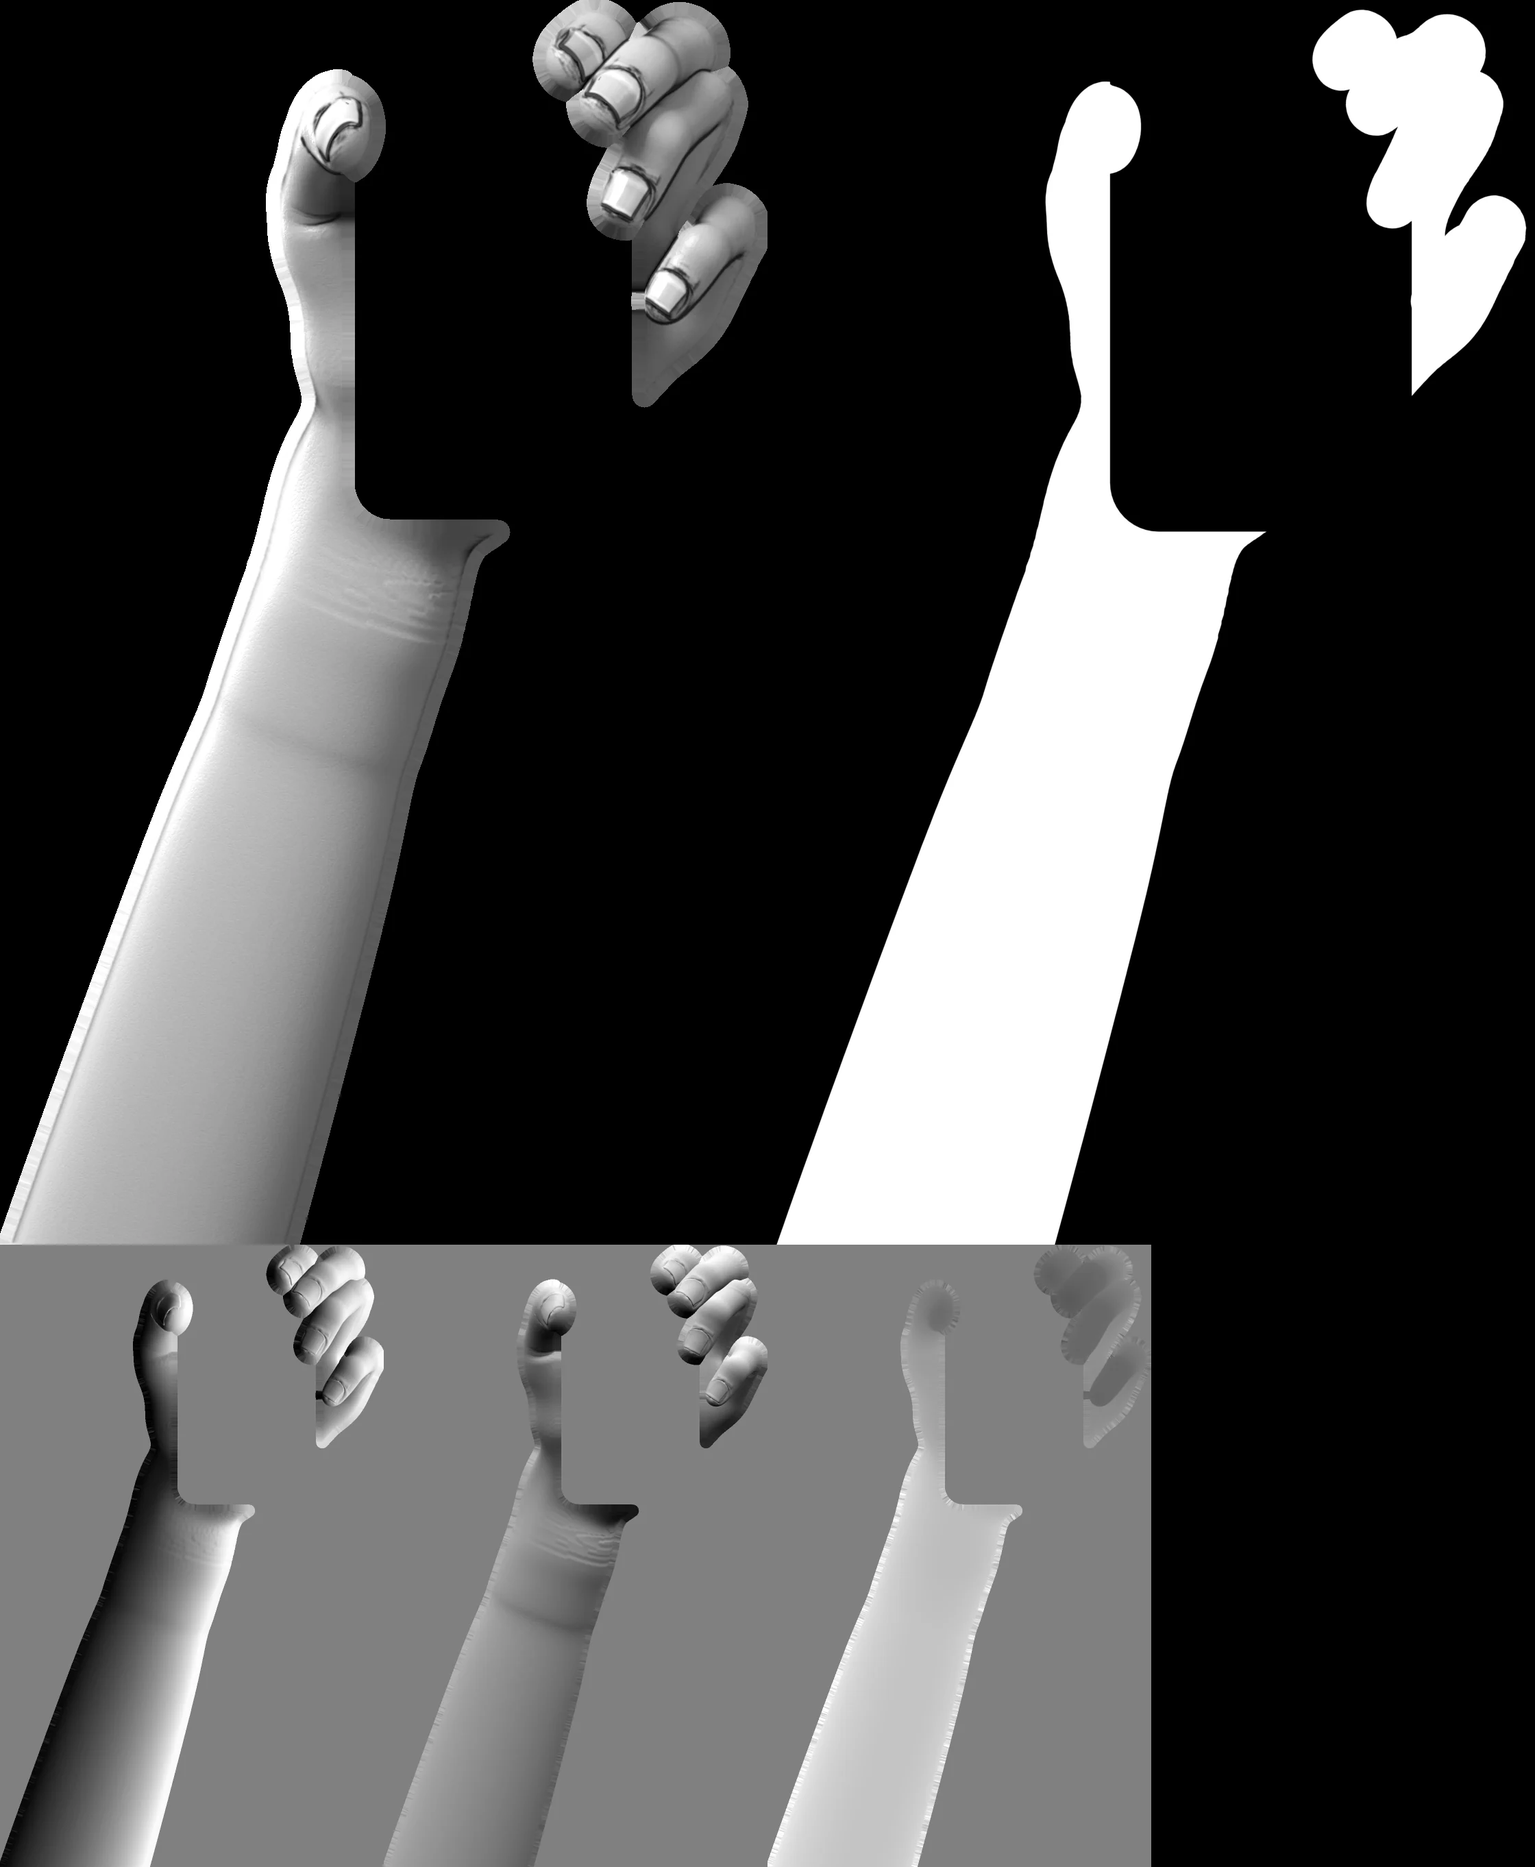
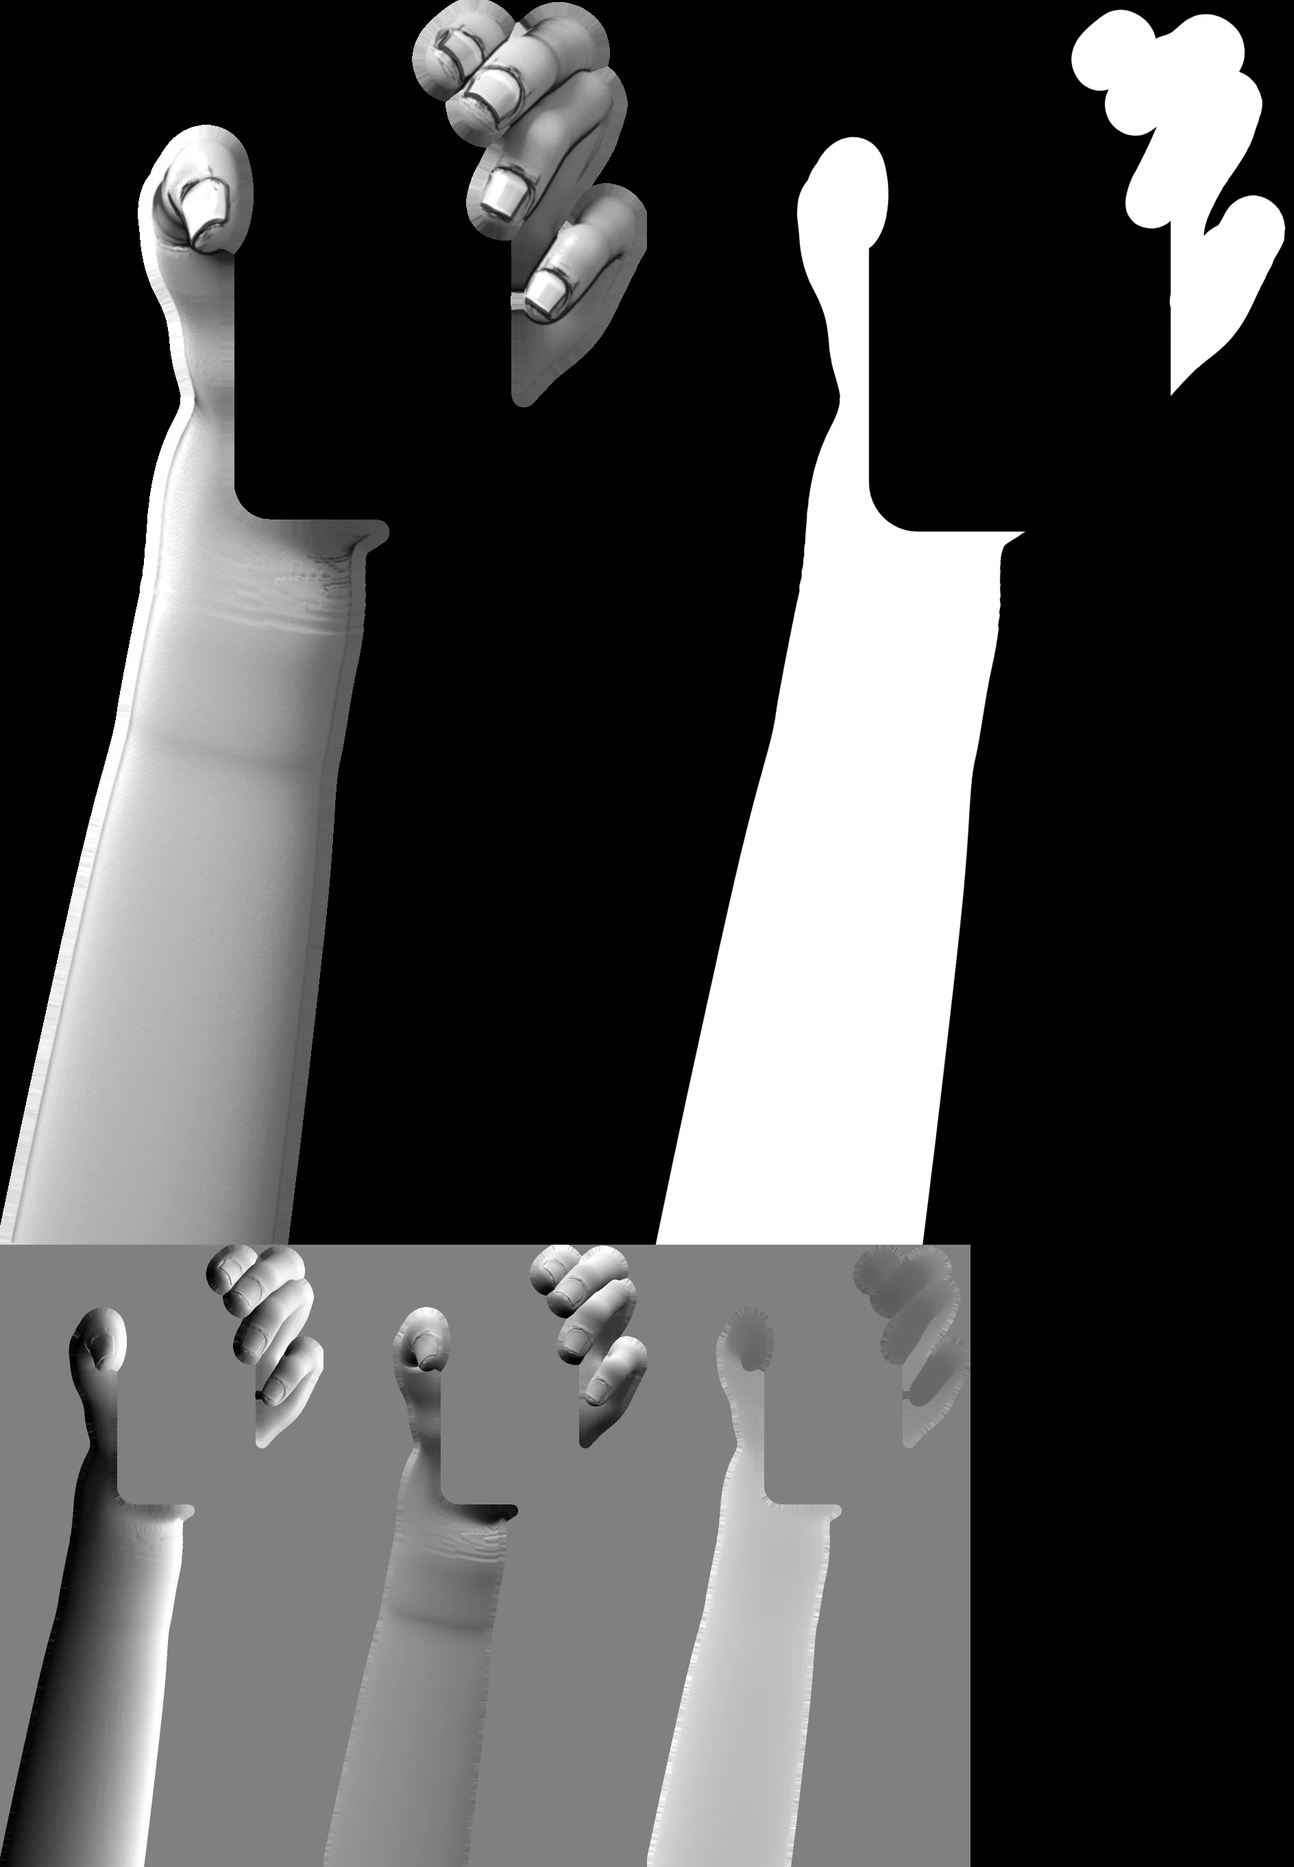
Hand-Pässe: Handy-Hand neu gerendert (Griff, Unterarm, Daumen), Zeigehand als Sprite, Shader-Referenz und Maße in HAND.md

diff --git a/design/HAND.md b/design/HAND.md
@@ -1,33 +1,164 @@
-# HAND: Hand-Pässe aus Blender (Stand: Zwischenstand, wird ergänzt)
+# HAND: realistische Hände aus Blender
 
-Die Hand, die das Handy hält, ist kein Kapsel-Gebilde mehr, sondern ein in Blender gerendertes, anatomisch echtes Modell (Linkshand-Griff, Daumen links am Rand, vier Finger um den rechten Rand, Handballen und Unterarm hinter dem Handy, Unterarm nach links unten). Die Engine bekommt keine Bilder, sondern Daten-Pässe und zeichnet daraus wie bisher Halbton-Punkte.
+Stand 2026-10-06. Die beiden Kapsel-Hände der Engine (Handy-Hand `holdBack`/`holdFront`, Zeigehand `point`) werden durch ein in Blender gerendertes, anatomisch echtes Handmodell ersetzt. Struktur, Pose, Position und Bildsprache bleiben wie im Design: Daumen links am Handyrand, vier Finger um den rechten Rand, Handballen und Unterarm hinter dem Handy, Unterarm nach links unten; die Zeigehand folgt dem Zeiger und der Arm zeigt nach 1460/1020. Gezeichnet wird weiter in Halbton-Punkten (`dot()`, Bayer, `mix-blend-mode: difference` auf der vorderen Ebene). Die Engine bekommt keine Fotos, sondern **Daten-Pässe** (Leuchtdichte, Alpha, Normale, Tiefe) und shadet daraus selbst. Dadurch bleibt die Lichtreaktion auf den Zeiger erhalten.
 
-Dateien: `public/hand/hold.webp` (Atlas), `public/hand/hold.json` (Kachel-Tabelle). Alles in Bühnenkoordinaten der Engine (1280 × 800, Handy-Mitte 800/400).
+Referenz-Umsetzung (läuft, Screenshots bei 1440 × 900 und 390 × 844 geprüft): `/Users/abu/Company/archiv/hand/scripts/preview.html` (Aufruf: Ordner `archiv/hand` mit `python3 -m http.server`, dann `/scripts/preview.html` mit `?b=../final/`; Parameter `ps`, `g`, `con`, `rim`, `view`, `ascii=1`, `mx/my/px/py`), eingeklebt im Abschnitt 6.
 
-## Koordinaten
+## 1. Dateien
 
-- Handy außen (Silhouette, wie `Ende` in `overlays.tsx`): `x 650, y 90, w 300, h 620, r 48`.
-- Bildschirm (Platz für die echte App): `x 661, y 101, w 278, h 598, r 37` (Inset 11).
-- Bühnen-px = 4,19 px/mm in der Handy-Ebene (Handy 71,6 × 147,6 × 7,8 mm, Eckenradius 11,5 mm).
+| Datei | Inhalt | Größe |
+|---|---|---|
+| `public/hand/hold.webp` + `hold.json` | Hand, die das Handy hält (Atlas 1888 × 2724, Maßstab 1,5) | 90 kB |
+| `public/hand/point.webp` + `point.json` | Zeigehand als Sprite (Atlas 3328 × 894, Maßstab 1,0) | 66 kB |
+| Summe | | 158 kB (Grenze 600 kB) |
 
-## Atlas
+Die JSON-Dateien beschreiben sich selbst (`tiles`, `origin`, `scale`, `encoding`, `space`; `hold.json` zusätzlich `phone`, `screen`, `bottomY`).
 
-`hold.webp`, 8 Bit Grau, 2240 × 2724. Kacheln laut `hold.json` (`tiles.<name>`: `x, y, w, h, div`). `div = 2` heißt: halbe Auflösung, bilinear hochskalieren.
+## 2. Koordinaten
 
-| Kachel | Inhalt |
-|---|---|
-| `lum` | Leuchtdichte (sRGB-Anzeigewert 0..1), Studiolicht oben links, Hautstreuung, Kanten als Tinte eingebacken |
-| `a` | Alpha der Hand (Handy ist Holdout: Alpha 0 dort, wo das Handy die Hand verdeckt) |
-| `nx`, `ny` | Normale im Bildraum, 0..255 = −1..1 (x nach rechts, y nach oben) |
-| `z` | Tiefe relativ zur Handy-Vorderseite, 0..255 = −100..+100 mm, plus = weiter weg |
+Bühne der Engine: 1280 × 800, Handy-Mitte 800/400, 4,19 Bühnen-px je mm in der Handy-Ebene (Handy 71,6 × 147,6 × 7,8 mm, Eckenradius 11,5 mm).
 
-Bühnen-Position der Kachel `lum`/`a`: `origin` (Bühnen-px, oben links) und `scale` (Kachel-px je Bühnen-px, 1,5).
-Kachel-Pixel `u = (x − origin.x) · scale / div`, `v = (y − origin.y) · scale / div`.
+- Handy außen (Silhouette, `Ende` in `overlays.tsx`): `x 650, y 90, w 300, h 620, r 48`.
+- Bildschirm, hier kommt die echte App hinein: `x 661, y 101, w 278, h 598, r 37` (Inset 11, wie das Handy-DOM).
+- Der Pass-Raum ist die Bühne. Bei Vollbild gilt dieselbe gleichmäßige Skalierung + Verschiebung für Handy-DOM, Canvas und Pässe; die Pässe selbst bleiben unverändert.
 
-## Vorn/hinten
+## 3. Atlas-Format (beide Dateien)
 
-Aus `z` und der Handy-Silhouette, nicht eingebacken: `vorne = sdf(Handy außen) < 4 && z < 1,5 mm`. Vorne = Zeichenfläche über dem Handy (`mix-blend-mode: difference`), alles andere = Fläche unter dem Handy.
+8-Bit-Grau, WebP. Kacheln laut JSON (`tiles.<name>`: `x, y, w, h, div`). `div = 2` bedeutet halbe Auflösung (bilinear hochskalieren).
 
-## Lizenz / Credits
+| Kachel | Auflösung | Inhalt |
+|---|---|---|
+| `lum` | voll | Leuchtdichte, sRGB-Anzeigewert 0..1: Studiolicht oben links (wie `LX/LY/LZ` der Engine), Hautstreuung, Kontakt-Schatten zwischen Fingern, Nagelränder und Fingerüberlappungen als Tintenlinie eingebacken |
+| `a` | voll | Alpha der Hand. Beim Handy-Pass ist das Handy Holdout: dort, wo das Handy die Hand verdeckt, ist Alpha 0 |
+| `nx`, `ny` | halb | Normale im Bildraum, 0..255 = −1..1 (x nach rechts, y nach oben), `nz = sqrt(1 − nx² − ny²)` |
+| `z` | halb | Tiefe, 0..255 = −100..+100 mm relativ zur Handy-Vorderseite (Handy-Pass) bzw. zur Fingerspitzen-Ebene (Zeigehand), plus = weiter weg |
 
-Basismodell: „Hand – Realistic“ aus dem Blender-Studio-Paket Human Base Meshes v1.4.1, Autor Dan Ulrich, Lizenz CC0. Alles Weitere (Rig, Pose, Nägel, Hautdetails, Material, Licht, Render) ist eigene Arbeit.
+Lage der Kacheln in der Bühne: `origin` (Bühnen-px der oberen linken Ecke von `lum`/`a`) und `scale` (Kachel-px je Bühnen-px). Kachel-px `u = (x − origin.x) · scale / div`, `v = (y − origin.y) · scale / div`.
+
+Außerhalb der Silhouette sind `lum`, `nx`, `ny`, `z` 12 Bühnen-px weit nach außen fortgesetzt, damit bilineares Sampling am Rand keine schwarzen Säume zieht. Immer mit `a` maskieren.
+
+## 4. Handy-Hand (`hold`)
+
+Linke Hand (Blender-Rechtshand, Spiegelkamera), natürlicher Griff. Gemessen im Bühnenraum:
+
+- Daumenspitze ragt 21 px über den linken Handyrand (Design: 28 px), Spitze bei y ≈ 323.
+- Fingerspitzen ragen über den rechten Rand: Zeige 100 px, Mittel 81 px, Ring 47 px, klein 4 px (Design: 28 px; echte Finger sind dicker als die Kapseln, der Halbton lässt die App dazwischen durchscheinen). Nägel sichtbar.
+- Unterarm-Achse 9,6° aus der Senkrechten nach links (Design 12,5°), Arm endet bei `bottomY = 1400` (Bühnen-px, 690 px unter der Handy-Unterkante). Ab etwa y 1310 ausblenden, wenn der Ausschnitt höher ist (Referenz-Shader macht das).
+- Holdout ist 2 % schmaler als das Handy-DOM: Haut darf bis zu 3 px darunterliegen, das DOM-Handy deckt sie.
+
+**Vorn/hinten** wird im Shader aus `z` und der Handy-Silhouette bestimmt, nicht eingebacken: `vorne = sdf(Handy außen) < 4 && z < 1,5 mm`. Vorne = Zeichenfläche über dem Handy (`mix-blend-mode: difference`, wie bisher `data-hand="front"`), alles andere = Fläche unter dem Handy (`data-hand="back"`). Vorne sind der Daumen und alle Fingerspitzen, die über den Rand auf den Bildschirm ragen.
+
+## 5. Zeigehand (`point`)
+
+Linke Hand von hinten, Zeigefinger gestreckt, Daumen oben, drei Finger eingerollt, Zeigefinger und Unterarm fast in einer Linie (wie im Design). Das Sprite ist ein starrer Körper in demselben Rahmen wie bisher `P(a, b)` in `drawHands`:
+
+- Sprite-Raum: Ursprung = Fingerspitze, `x` = Richtung Arm, `y` nach unten = Seite der eingerollten Finger (im Design `b > 0`). `point.json: origin` ist die Kachel-Ecke in diesem Raum (Bühnen-px bei Maßstab 1).
+- Platzierung wie in der Engine: `u = normalize(1460 − ht.x, 1020 − ht.y)`, `n = (−u.y, u.x)`, Spitze `(tx, ty) = ht + u · (6 + push · 4)`, Maßstab `sc = PS · (1 − push · 0,06)`.
+  Zelle `(x, y)` → Sprite `a = ((x − tx) · u.x + (y − ty) · u.y) / sc`, `b = ((x − tx) · n.x + (y − ty) · n.y) / sc`, dort mit `samp()` lesen.
+- **`PS = 0,55`** trifft die Fingerbreite des alten Designs (≈ 37 px). Echte Größe wäre `PS = 1` (Finger 67 px).
+- Verblassen wie bisher: `fade = clamp(1 − (dist − 300) / 420)` mit `dist` = Abstand zur Spitze. Das Sprite reicht 1636 Sprite-px weit (900 Bühnen-px bei `PS 0,55`), also über das Verblassen (720 px) hinaus; kein sichtbarer Schnitt.
+- Normalen ins Bühnenraum-System, falls die Zeigehand auch vom Zeigerlicht beleuchtet werden soll: `n_bühne = nx_s · (u.x, −u.y) + ny_s · (u.y, u.x)` (x rechts, y oben). Die Referenz nutzt für die Zeigehand nur das eingebackene Licht.
+- Soll die Hand rechts statt links sein: `b = −b` im Sampler (dann sitzt der Daumen unten, wie bei der natürlichen Rechtshand von hinten).
+
+## 6. Halbton-Shader (Referenz, aus `preview.html`)
+
+`dot()`, `HB`, `hsh`, `cl`, `ss`, `lightF`, `ink`, `step 2,5` bleiben aus der Engine. Neu ist nur die Herkunft von `v` (Ton 0..1) je Zelle. Abgestimmte Konstanten: `GAM 0,6`, `CON 1,25`, `RIM 0,45`, `EDW 3,4`, `EDV 1,0`, `JIT 0,15` (Engine: 0,4; weniger Zufall = lesbare Finger).
+
+```js
+// --- Atlas laden (einmal) ---
+async function loadHand(url, jsonUrl) {
+  const meta = await (await fetch(jsonUrl)).json(), img = new Image(); img.src = url; await img.decode();
+  const c = document.createElement('canvas'); c.width = img.naturalWidth; c.height = img.naturalHeight;
+  const g = c.getContext('2d', { willReadFrequently: true }); g.drawImage(img, 0, 0);
+  const D = g.getImageData(0, 0, c.width, c.height).data, T = {};
+  for (const [n, t] of Object.entries(meta.tiles)) {
+    const a = new Uint8Array(t.w * t.h);
+    for (let j = 0; j < t.h; j++) for (let i = 0; i < t.w; i++) a[j * t.w + i] = D[((t.y + j) * c.width + t.x + i) * 4];
+    T[n] = { a, w: t.w, h: t.h, div: t.div };
+  }
+  const S = meta.scale, [X0, Y0] = meta.origin;
+  const samp = (t, X, Y) => {                       // X, Y in Buehnen-px bzw. Sprite-px, bilinear, ausserhalb 0
+    const u = (X - X0) * S / t.div - 0.5, v = (Y - Y0) * S / t.div - 0.5, i = Math.floor(u), j = Math.floor(v), fu = u - i, fv = v - j;
+    const q = (ii, jj) => (ii < 0 || jj < 0 || ii >= t.w || jj >= t.h) ? 0 : t.a[jj * t.w + ii];
+    return ((q(i, j) * (1 - fu) + q(i + 1, j) * fu) * (1 - fv) + (q(i, j + 1) * (1 - fu) + q(i + 1, j + 1) * fu) * fv) / 255;
+  };
+  return { meta, T, samp };
+}
+
+// --- Handy-Hand: pro Zelle (x, y), i, j wie in der Engine ---
+const sdfRR = (x, y, R) => { const qx = Math.abs(x - (R.x + R.w / 2)) - (R.w / 2 - R.r), qy = Math.abs(y - (R.y + R.h / 2)) - (R.h / 2 - R.r);
+  return Math.hypot(Math.max(qx, 0), Math.max(qy, 0)) + Math.min(Math.max(qx, qy), 0) - R.r; };
+function holdCell(H, x, y, i, j, mx, my, cb, cf) {              // H = loadHand(hold), (mx, my) = Zeiger in Buehnen-px
+  const { T, samp, meta } = H, al = samp(T.a, x, y); if (al < 0.15) return;
+  const zmm = samp(T.z, x, y) * 200 - 100, sdf = sdfRR(x, y, meta.phone);
+  const front = sdf < 4 && zmm < 1.5;
+  let L = samp(T.lum, x, y); L = cl(0.5 + (Math.pow(L, 0.6) - 0.5) * 1.25);
+  const nx = samp(T.nx, x, y) * 2 - 1, ny = samp(T.ny, x, y) * 2 - 1, nz = Math.sqrt(Math.max(0, 1 - nx * nx - ny * ny)), lf = lightF(x, y);
+  let v = L * (0.62 + 0.5 * lf);
+  v += 0.45 * Math.max(0, nx * 0.85 + ny * 0.05 + nz * 0.15) * (0.5 + 0.5 * L);               // Gegenlicht von rechts
+  { const lx = mx - x, ly = -(my - y), lz = 170 + zmm * (300 / 71.6), d = Math.hypot(lx, ly, lz);   // Zeiger als Punktlicht
+    const dn = Math.max(0, (nx * lx + ny * ly + nz * lz) / d), fo = 1 / (1 + Math.pow(d / 300, 2));
+    v = v * 0.78 + (0.85 * dn * fo + Math.pow(dn, 18) * fo * 0.9) * (0.35 + 0.65 * L) * 1.15; }
+  const e = 3.4, eA = Math.min(samp(T.a, x - e, y), samp(T.a, x + e, y), samp(T.a, x, y - e), samp(T.a, x, y + e));
+  const edge = eA < 0.5 && Math.abs(sdf) >= 7;                                                // am Handy-Schnitt keine Kontur
+  const cov = ss((al - 0.2) / 0.5) * ss((meta.bottomY - y) / 90);
+  if (front && sdfRR(x, y, meta.screen) < -1) {                 // ueber dem weissen Bildschirm: Tinte statt Licht (Haut immer dunkler als Weiss)
+    const tn = 0.04 + 0.86 * Math.pow(cl(v), 1.35); let vd = Math.pow(1 - tn, 0.45); if (edge) vd = Math.max(vd, 0.95);
+    dot(cf, x, y, vd * cov, i, j);
+  } else { if (edge) v = Math.max(v, lf * al); dot(front ? cf : cb, x, y, v * cov, i, j); }
+}
+
+// --- Zeigehand: pro Zelle, immer auf der vorderen Ebene ---
+function pointCell(P, screen, x, y, i, j, tx, ty, ux, uy, PS, cf) {   // P = loadHand(point), screen = hold.meta.screen, (tx,ty) Spitze, (ux,uy) Armrichtung
+  const { T, samp } = P, dx = x - tx, dy = y - ty, a = (dx * ux + dy * uy) / PS, b = (-dx * uy + dy * ux) / PS;
+  const al = samp(T.a, a, b); if (al < 0.15) return;
+  const fade = cl(1 - (Math.hypot(dx, dy) - 300) / 420); if (fade <= 0) return;
+  let L = samp(T.lum, a, b); L = cl(0.5 + (Math.pow(L, 0.6) - 0.5) * 1.25);
+  const lf = lightF(x, y); let v = L * (0.62 + 0.5 * lf);
+  const e = 3.4 / PS, edge = Math.min(samp(T.a, a - e, b), samp(T.a, a + e, b), samp(T.a, a, b - e), samp(T.a, a, b + e)) < 0.5, cov = ss((al - 0.2) / 0.5);
+  if (sdfRR(x, y, screen) < -1) {                                // wie oben: ueber dem Bildschirm Tinte
+    const tn = 0.04 + 0.86 * Math.pow(cl(v), 1.35); let vd = Math.pow(1 - tn, 0.45); if (edge) vd = Math.max(vd, 0.95);
+    dot(cf, x, y, vd * cov * fade, i, j);
+  } else { if (edge) v = Math.max(v, lf * al); dot(cf, x, y, v * cov * fade, i, j); }
+}
+```
+
+Einbau in `hero.js`: `holdBack`, `holdFront`, `point`, `S`, `KS`, `FR`, `uc`, `smn`, `cap`, `nail`, `phoneBox` entfallen. In `drawHands` bleiben `tg`/`s.ht`-Glättung, `push`, `u/n`-Rahmen, `ink`, die Zellschleife, `dot`, der Klick-Ring und `endA`. Die Schleife läuft über die belegten Zellen (12er-Raster aus `a`, im Referenz-Shader `occ`) statt über SDF-Masken.
+
+Aufwand: Referenz-Shader braucht in Chromium (M3, ohne Optimierung) 25–40 ms je Bild für beide Hände. Billiger: Alpha, `lum`, Normale, `front`, `edge`, `onScreen`, `cov` der Handy-Hand je Zelle einmal beim Laden vorberechnen (die Zellen sind fest); je Bild bleibt nur die Zeigerlicht-Rechnung. Die Zeigehand muss je Bild neu gesampelt werden, sie bewegt sich.
+
+## 7. Hochformat / Mobil
+
+Dieselben Pässe, keine zweite Fassung. Die Komposition (Handy, Daumen, Finger, Arm) ist im Pass-Raum fest; für Hochformat wählt man nur einen anderen Bühnenausschnitt. Geprüft mit Ausschnitt `x 560, y 40, w 540, h 1170` auf 390 × 844 (Maßstab 0,72, Handy 217 × 447 px): Handy mittig, Daumen links, Fingerspitzen rechts, Unterarm läuft unten aus dem Bild, die Zeigehand liegt vor dem Bildschirm. Höhere Ausschnitte (bis y 1400) funktionieren, darunter blendet der Arm aus. Schriftzug und Button gehören dort unter oder neben die Arme, sie sind nicht Teil der Pässe.
+
+## 8. Kamera, Rig, Licht (zum Neu-Rendern)
+
+Quelle: `/Users/abu/Company/archiv/hand/hand.blend` (Blender 5.2) mit allen Skripten in `archiv/hand/scripts/`.
+
+- Kamera `CamMaster` (Handy-Hand): Linse 85 mm, Sensor 36 mm (horizontal), Position (0; −0,7252; 0) m, Drehung (90°, 0, 0), **Skalierung x = −1** (Spiegelkamera: macht aus der Blender-Rechtshand die Linkshand im Bild), Shift (−0,125; −0,234375), Auflösung 1920 × 2100 (= 1,5 × 1280 × 1400), Clip 0,05–5 m. Handy-Vorderseite liegt 0,7213 m vor der Kamera.
+- Handy: 71,6 × 147,6 × 7,8 mm, Eckenradius 11,5 mm, Mitte im Ursprung, im Pass als Holdout (Skalierung 0,98/1/0,99).
+- Licht: Key (Fläche 0,6 m, 18 W) bei (0,6; −0,55; 0,75), Rim (9 W) bei (0,55; 0,5; 0,2), Fill (3,4 W, 1,0 m) bei (−0,6; −0,65; 0,2), Welt weiß 0,05. Cycles, 192 Samples, Entrauschen, Standard-Farbverwaltung, transparenter Film.
+- Aux-Pass (Emission): R = `Nx_Welt · 0,5 + 0,5`, G = `Nz_Welt · 0,5 + 0,5`, B = `(Tiefe − 0,7213) · 5 + 0,5`, A = Alpha. `pack3.py` macht daraus Bildraum-Normalen (x gespiegelt) und `z` in mm.
+- Rig: 3 Knochen je Finger, 3 Daumen, Hand, Arm; Pose als 31-Parameter-Vektor (`q_hold.json`, Vorwärtskinematik in `handlib.py`). Zeigehand: `point_q.json` (Pose + Kamera `CamPoint`: Linse 85 mm, Abstand 0,7213 m, Sensor `36 · W / 1280` mm, damit die Dichte bei 4,19 px/mm bleibt und nur das Sichtfeld mit der Breite wächst; Spitze bei Pixel 64/450, Spin 8° macht den Unterarm waagerecht).
+- Befehle (aus `archiv/hand/scripts/`, Python mit numpy, scipy, Pillow, OpenEXR):
+
+```
+blender -b ../hand.blend --python render_passes.py -- q_hold.json out/hold 192 1920 2100 lt_hold.json
+python3 pack3.py out/hold out/pk hold --scale 1.5 --q 88 --pct 80 --gain 0.78 --phone 650,90,300,620,48
+blender -b ../hand.blend --python qpoint.py -- point_q.json out/point passes 1700 1000 192
+python3 pack3.py out/point out/pk point --scale 1.0 --q 88 --pct 80 --gain 0.78 --anchor 64,450
+```
+
+Nicht mehrere Blender-Läufe mit GPU parallel starten (Metal: „Insufficient Memory“).
+
+## 9. Lizenz / Credits
+
+Basismodell: „Hand – Realistic“ aus dem Blender-Studio-Paket **Human Base Meshes v1.4.1**, Autor Dan Ulrich, Lizenz **CC0** (kein Nachweis nötig, wird hier trotzdem genannt). Quelle: https://mirror.blender.org/demo/asset-bundles/human-base-meshes/human-base-meshes-bundle-v1.4.1.zip. Alles Weitere (verlängerter und aufgeweiteter Unterarm, Rig, Gewichte, Pose, Nägel, Hautfalten, Material, Licht, Render, Pässe) ist eigene Arbeit. Es wurde kein generiertes Modell und keine fremde Fotografie benutzt.
+
+## 10. Bekannte Grenzen
+
+- Die Finger der Handy-Hand überdecken mehr vom Bildschirm als im Design (Zeigefinger 100 px statt 28 px), weil echte Finger dicker sind. Weniger Überlappung ging nur auf Kosten der Natürlichkeit (Fingerspitzen zeigen dann nach oben, Nägel verschwinden).
+- Beide Hände sind Linkshände (Spiegelkamera, wie im Design: Daumen links bzw. oben). Für eine Rechtshand beim Zeigen: `b = −b` (Abschnitt 5).
+- Die Zeigehand kann bei Zeigerposition rechts der Handymitte mit dem Daumen auf den kleinen Finger der Handy-Hand fallen (zwei Halbton-Flächen laufen ineinander). Idle-Pfad der Zeigehand daher bei etwa `x 780–860, y 330–470` halten.
+- Zwischen Daumen und Zeigefinger der Zeigehand sitzt ein kleiner Haut-Zipfel (Gewichtsübergang am Daumengrundgelenk). Bei `PS ≤ 0,7` nur ein Punktpaar groß.
+- `lum` ist für ein Licht von oben links gebacken. Das Zeigerlicht verschiebt nur Glanz und Helligkeit, keine Schlagschatten.
